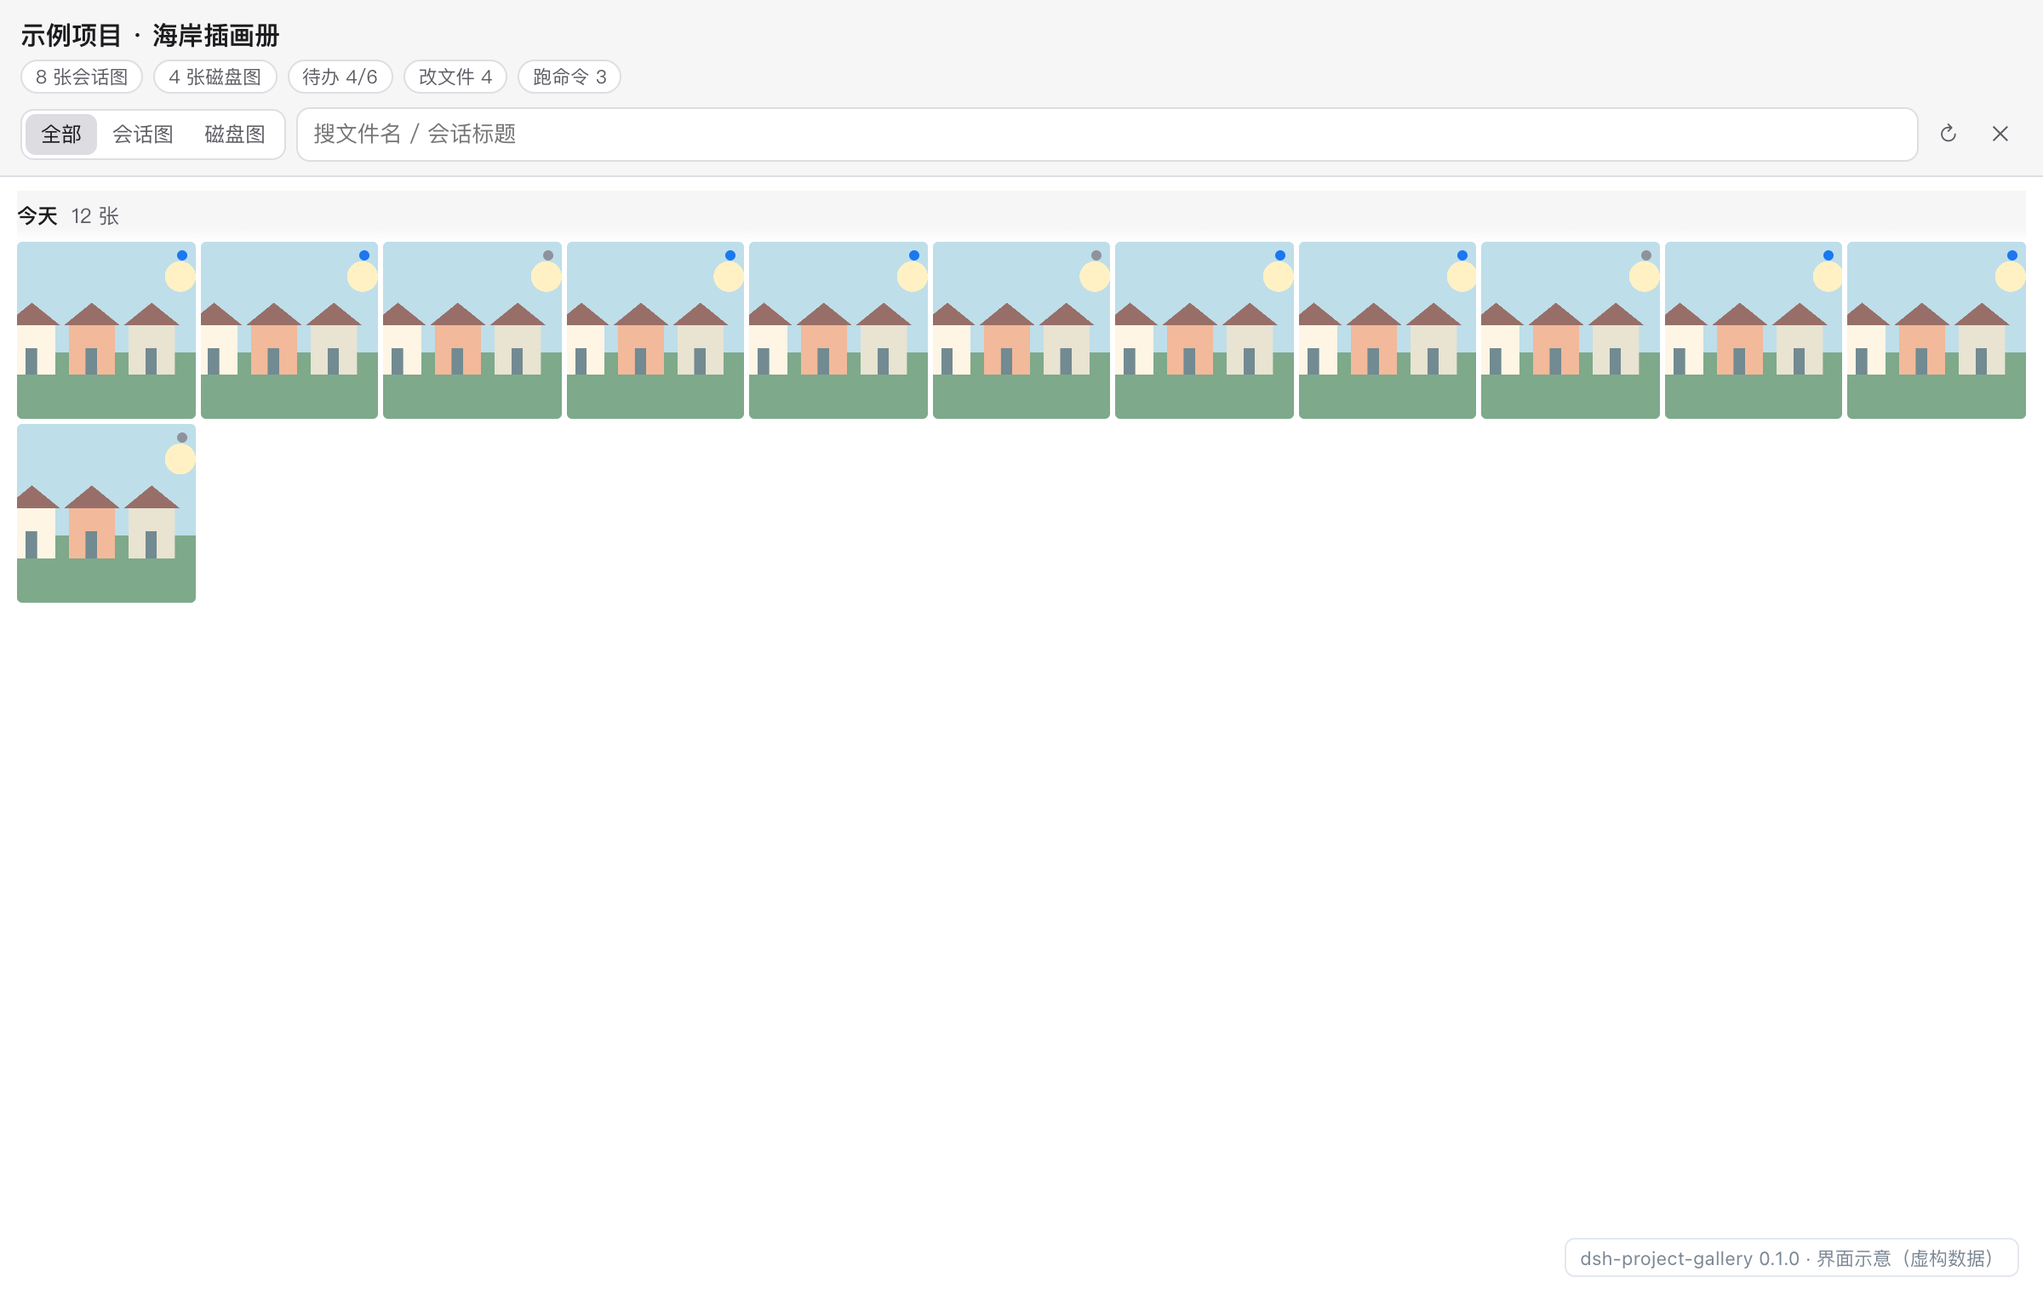
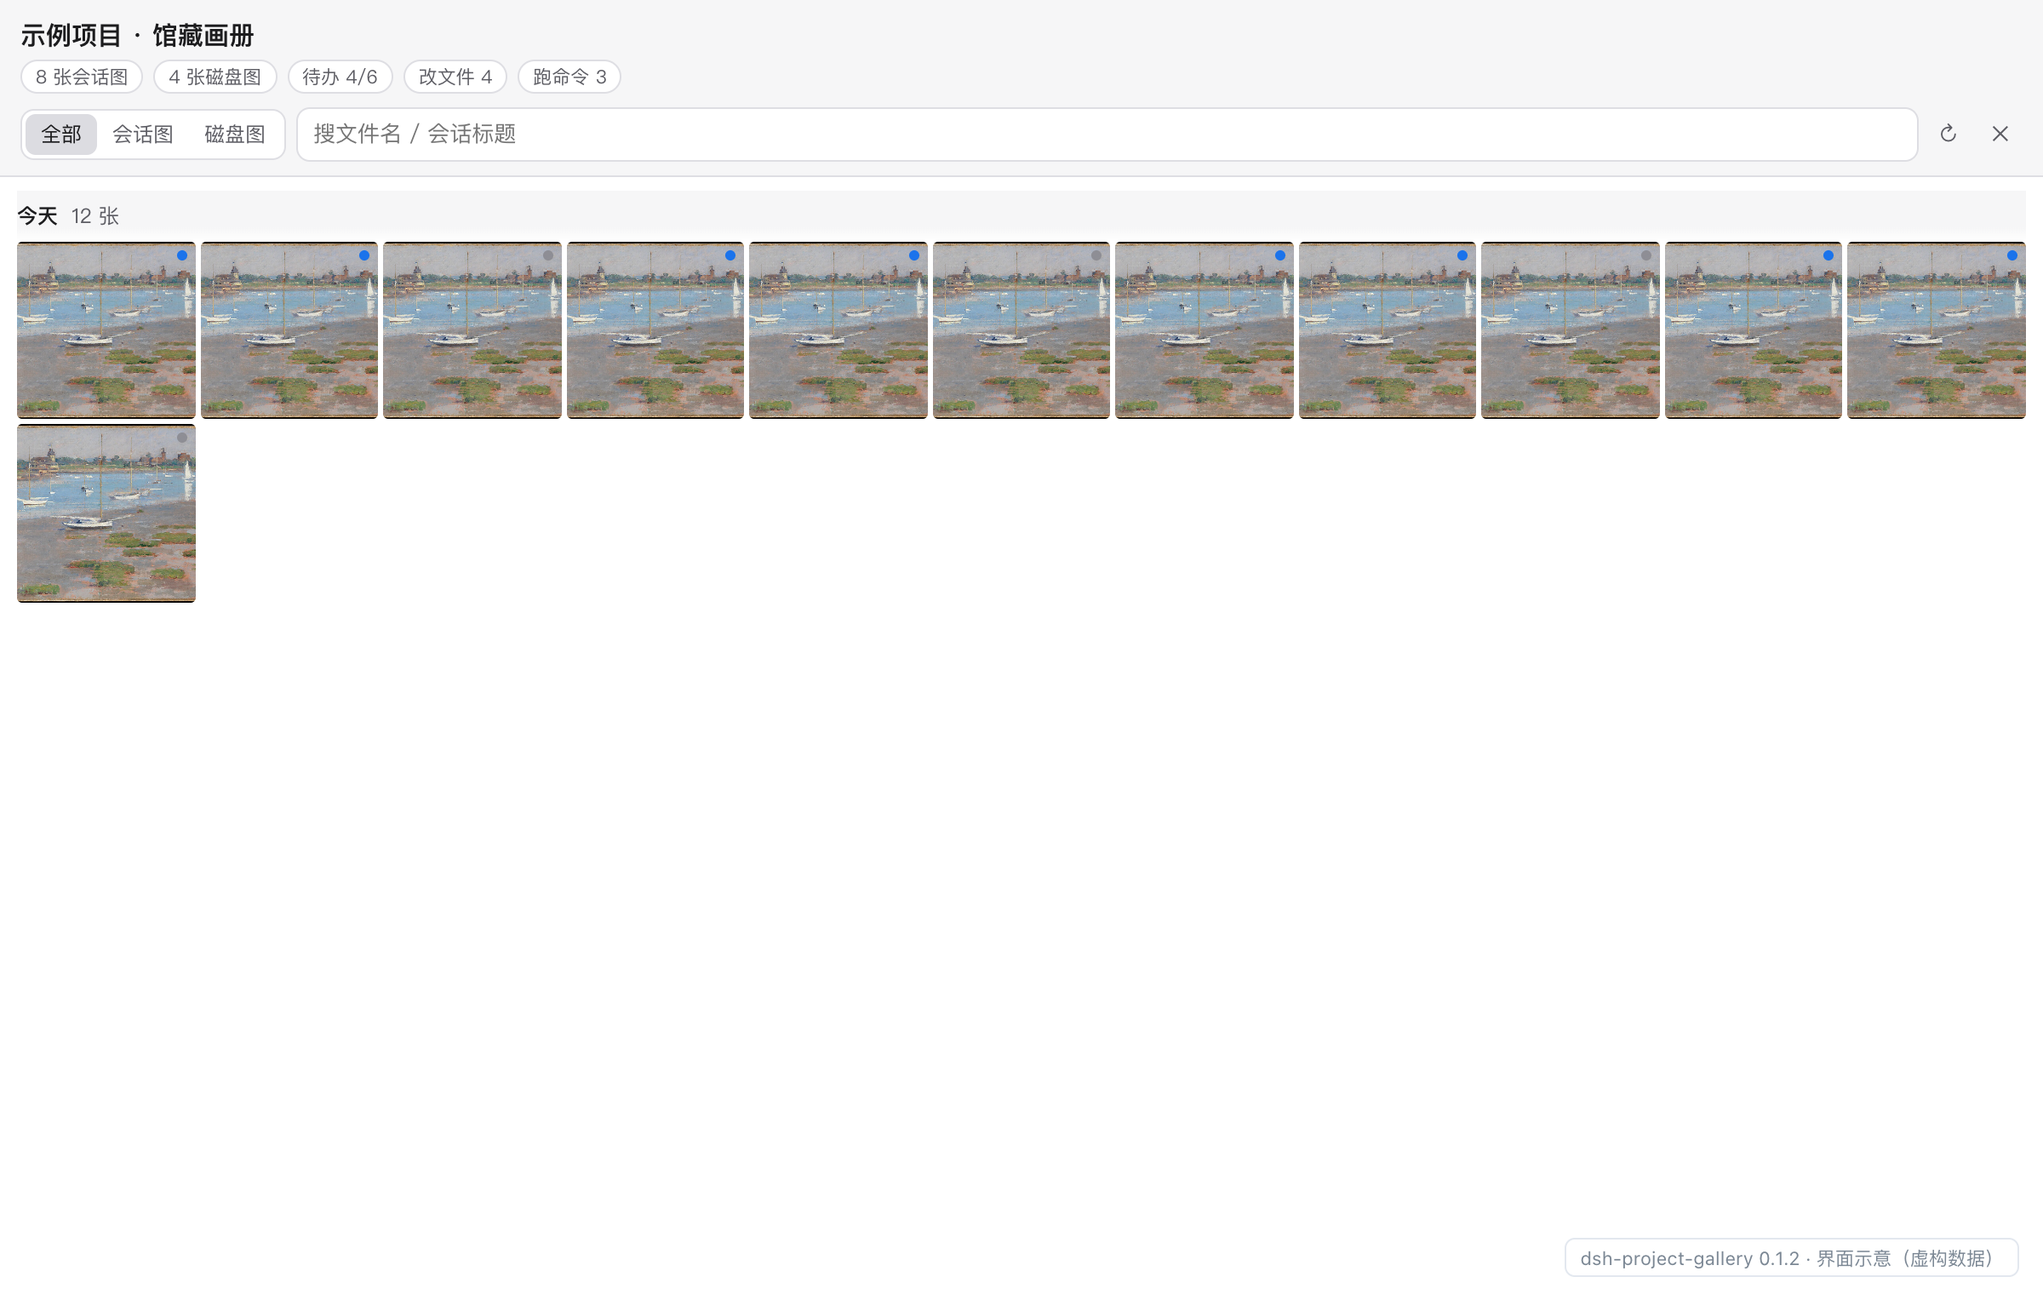
release: 0.1.3 — 演示素材换 CC0 公共领域作品；补悬停卡片截图与促销图浮层

Changed region(s): [[0.0, 0.1855, 1.0, 0.4638], [0.0625, 0.0, 0.125, 0.0309]]

diff --git a/demo/card.html b/demo/card.html
@@ -1,0 +1,153 @@
+<!doctype html>
+<html lang="zh-CN">
+<head>
+<meta charset="utf-8">
+<title>悬停卡片 · 界面示意</title>
+<style>
+  * { box-sizing: border-box; }
+  html, body { margin: 0; background: transparent; }
+  body { font-family: -apple-system, BlinkMacSystemFont, "PingFang SC", "Noto Sans SC", sans-serif; }
+  body.ui {
+    background: #fbfbfc;
+    display: flex;
+    width: 1200px;
+    height: 760px;
+    overflow: hidden;
+  }
+  .side {
+    width: 300px;
+    flex: 0 0 300px;
+    background: #f6f6f8;
+    border-right: 1px solid #ececf0;
+    padding: 16px 12px;
+  }
+  .side .head {
+    display: flex; align-items: center; gap: 8px;
+    padding: 6px 10px 14px; color: #8b8b93; font-size: 12px; font-weight: 600; letter-spacing: .04em;
+  }
+  .side .head i { width: 8px; height: 8px; border-radius: 2px; background: #c7c7d1; display: block; }
+  .row {
+    position: relative;
+    display: flex; align-items: center; gap: 9px;
+    padding: 9px 10px; border-radius: 8px;
+    font-size: 13px; color: #2e2e34;
+  }
+  .row .dot { width: 7px; height: 7px; border-radius: 50%; background: #cfcfd7; flex: 0 0 7px; }
+  .row .name { overflow: hidden; text-overflow: ellipsis; white-space: nowrap; }
+  .row .n { margin-left: auto; font-size: 11px; color: #a4a4ac; }
+  .row.active { background: #ecebfa; }
+  .row.active .dot { background: #5b5bd6; }
+  .row:hover { background: #f0f0f4; }
+  .main { flex: 1; padding: 26px 30px; color: #c3c3ca; font-size: 13px; }
+  .main .ghost { height: 12px; border-radius: 6px; background: #f1f1f4; margin-bottom: 12px; }
+</style>
+</head>
+<body>
+<script type="module">
+  const params = new URLSearchParams(location.search)
+  if (params.get('bg') !== 'none') document.body.classList.add('ui')
+
+  // 卡片样式直接取自浏览器半片 client.js 里的 CSS，避免两套样式漂移
+  const clientSource = await (await fetch('/session-gallery/client.js')).text()
+  const cssMatch = clientSource.match(/const CSS = `([\s\S]*?)`/)
+  if (!cssMatch) throw new Error('client.js 里没找到 CSS 块')
+  const style = document.createElement('style')
+  style.textContent = cssMatch[1]
+  document.head.append(style)
+
+  const summary = await (await fetch('/session-gallery/api/summary')).json()
+  const project = summary.workspaces[0]
+
+  const PEEK_CAPTION = data =>
+    `${data.imageCount} 张图 · 待办 ${data.todos.done}/${data.todos.total} · ${data.sessionCount} 次会话`
+
+  // 侧栏示意（只有背景模式才画）
+  if (document.body.classList.contains('ui')) {
+    const side = document.createElement('div')
+    side.className = 'side'
+    side.innerHTML = '<div class="head"><i></i>工作区</div>' + summary.workspaces.map((workspace, index) => `
+      <div class="row${index === 0 ? ' active' : ''}" data-index="${index}">
+        <span class="dot"></span>
+        <span class="name">${workspace.name}</span>
+        <span class="n">${workspace.imageCount}</span>
+      </div>`).join('')
+    const main = document.createElement('div')
+    main.className = 'main'
+    main.innerHTML = '<div class="ghost" style="width:38%"></div><div class="ghost" style="width:72%"></div><div class="ghost" style="width:58%"></div>'
+    document.body.append(side, main)
+  }
+
+  // 卡片：结构与 client.js 的 showPeek 一致
+  const card = document.createElement('div')
+  card.className = 'sg-peek'
+  card.style.position = 'fixed'
+  card.style.visibility = 'hidden'
+
+  const bar = document.createElement('div')
+  bar.className = 'sg-peek-bar'
+  const title = document.createElement('b')
+  title.textContent = project.name
+  title.style.cssText = 'overflow:hidden;text-overflow:ellipsis;white-space:nowrap;flex:1;min-width:0'
+  const pin = document.createElement('button')
+  pin.className = 'sg-icon-btn'
+  pin.title = '固定住（鼠标移开也不消失）'
+  pin.textContent = '📌'
+  const close = document.createElement('button')
+  close.className = 'sg-icon-btn'
+  close.title = '关闭 (Esc)'
+  close.textContent = '✕'
+  bar.append(title, pin, close)
+
+  const caption = document.createElement('span')
+  caption.className = 'sg-peek-caption'
+  caption.textContent = PEEK_CAPTION(project)
+  caption.style.cssText = 'font-size:11px;color:#9a9aa1'
+
+  const grid = document.createElement('div')
+  grid.className = 'sg-peek-grid'
+  for (const image of project.thumbs.slice(0, 4)) {
+    const button = document.createElement('button')
+    button.className = 'sg-peek-thumb'
+    button.title = image.name || ''
+    const img = document.createElement('img')
+    img.src = `/session-gallery/api/thumb?sha=${encodeURIComponent(image.sha)}&w=200`
+    img.alt = image.name || ''
+    button.append(img)
+    grid.append(button)
+  }
+
+  const foot = document.createElement('div')
+  foot.className = 'sg-peek-foot'
+  const open = document.createElement('button')
+  open.className = 'sg-peek-open'
+  open.textContent = '打开相册'
+  const all = document.createElement('button')
+  all.className = 'sg-icon-btn'
+  all.style.width = '26px'
+  all.title = '全部项目（⌘⇧G）'
+  all.textContent = '▦'
+  const mute = document.createElement('button')
+  mute.className = 'sg-icon-btn'
+  mute.style.width = '26px'
+  mute.title = '不再自动预览'
+  mute.textContent = '⊘'
+  foot.append(open, all, mute)
+
+  card.append(bar, caption, grid, foot)
+  document.body.append(card)
+
+  // 定位：桌面模式贴在第二行右侧；透明模式放在左上角
+  if (document.body.classList.contains('ui')) {
+    const row = document.querySelectorAll('.row')[1] || document.querySelector('.row')
+    const rect = row.getBoundingClientRect()
+    card.style.left = `${Math.round(rect.right + 14)}px`
+    card.style.top = `${Math.round(rect.top)}px`
+  } else {
+    card.style.left = '0px'
+    card.style.top = '0px'
+  }
+  card.style.visibility = 'visible'
+  document.body.dataset.ready = '1'
+</script>
+</body>
+</html>

diff --git a/docs/screenshots-demo/PROVENANCE.md b/docs/screenshots-demo/PROVENANCE.md
@@ -1,23 +1,52 @@
-# 演示图来源与重生成
+# 演示素材的来源与重生成
 
-这三张图**全部是虚构数据**，不含任何真实项目、真实路径、真实会话：
+所有对外图片都只用**虚构数据 + 无版权素材**生成，生成脚本在仓库里，可重复。
 
-- 数据源：`demo/mock-server.mjs`（项目名 `示例项目 · 海岸插画册`，图片名 `示例_海岸_0N.png`）
-- 图片素材：`demo/fixtures/illustration-1..4.png`，程序绘制的原创插画（无第三方版权）
-- 生成命令：`npm run shots`（Playwright + 本机 Chrome，1200×760 @2x）
-- 页脚水印：`dsh-project-gallery <版本> · 界面示意（虚构数据）`，版本号由 `package.json` 注入
-- 校验：`node --test` 的 15 项 + 图内不得出现真实路径/项目名（发布前用 grep 复查）
+## 1. 演示图片（demo/fixtures/）
+
+8 张公共领域作品，取自 The Metropolitan Museum of Art Open Access（CC0 1.0），可自由复制、修改、商用。
+逐张的作品名/作者/年代/来源链接见 [demo/fixtures/LICENSE-IMAGES.md](../../demo/fixtures/LICENSE-IMAGES.md)。
+
+处理方式：只等比缩放到最长边 900px、转 JPEG（q82），未做其它修改。
+
+## 2. 虚构数据（demo/mock-server.mjs）
+
+- 三个虚构项目：`示例项目 · 馆藏画册` / `示例项目 · 版式实验` / `示例项目 · 落地页重做`
+- 虚构会话标题与对话原文（例如「把这张画的色调改成清晨的暖色，并生成 4 张候选。」）
+- 路径一律 `/demo/<项目>`，不含任何真实目录
+
+## 3. 截图（docs/screenshots-demo/）
+
+生成命令：`node demo/shots.mjs`（需要 playwright；`PLAYWRIGHT_PATH` 可指向任意已装目录）
 
 | 文件 | 截的是什么 |
 |---|---|
 | `01-global-album.png` | 全局相册：左侧按项目、右侧按天分组网格 |
-| `02-project-dock.png` | 项目级右侧面板：项目名 + 统计 chips + 搜索 + 网格 |
+| `02-project-dock.png` | 项目级侧栏面板：项目名 + 统计 + 搜索 + 网格 |
 | `03-lightbox.png` | 灯箱：图左 / 上下文右（当时在做什么、元信息、动作）/ 胶片条在下 |
+| `04-hover-card.png` | 悬停工作区行弹出的卡片（可 📌 固定、可 ⊘ 静音），背景是示意侧栏 |
+| `card-transparent.png` | 同一张卡片的透明底版本，给促销图当浮层用 |
 
-## 促销图（`docs/promo-zh.png` / `docs/promo-en.png`）
+界面本身走真实代码：`01`–`03` 由 `web/` 页面渲染；`04` 与透明卡片由 `demo/card.html` 渲染，
+**卡片样式直接从 `adapters/dsh-plugin/client.js` 里的 CSS 块读取**（页面会 fetch `client.js` 并取 `const CSS = ...`），
+所以不会出现「截图是另一套样式」的漂移。
 
-同样只用虚构数据：
+## 4. 促销图（docs/promo-zh.png / docs/promo-en.png）
 
-- 界面部分：`03-lightbox.png`（上面那张，虚构项目与虚构插画）缩放进右侧窗口；
-- 文字、标签、安装命令、背景由 `promotion/make-promo.mjs` 现场排版渲染（Playwright + 本机 Chrome，1600×900 @2x）；
-- 不含任何真实项目名、路径、会话或截图。
+生成命令：`node promotion/make-promo.mjs`（Playwright + 本机 Chrome，1600×900）
+
+- 右侧：`03-lightbox.png` 缩放；左下浮层：`card-transparent.png`（即 `04` 的那张卡片）
+- 左侧文字、标签、安装命令、背景由脚本现场排版
+- 不含任何真实项目名、路径、会话或截图
+
+## 5. 页脚水印
+
+截图右下角带 `dsh-project-gallery <版本> · 界面示意（虚构数据）`，版本号由 `package.json` 注入。
+
+## 6. 发布前复查
+
+```sh
+grep -rIn --exclude-dir=.git -E '/Users/|/home/|hequbing|dosen' docs demo promotion | head
+```
+
+应只命中脚本里的注释或示例路径；有真实路径就说明素材拿错了，不要发。

diff --git a/demo/fixtures/LICENSE-IMAGES.md b/demo/fixtures/LICENSE-IMAGES.md
@@ -1,0 +1,20 @@
+# 演示素材（demo/fixtures/）的来源与许可
+
+这 8 张图**全部是公共领域作品**，取自 The Metropolitan Museum of Art 的 Open Access（CC0 1.0），
+可自由复制、修改、商用，无需署名（这里仍按惯例列出出处）。
+
+| 文件 | 作品 | 作者 | 年代 | 来源 |
+|---|---|---|---|---|
+| `artwork-1.jpg` | Low Tide, Riverside Yacht Club | Theodore Robinson | 1894 | [Met Open Access](https://www.metmuseum.org/art/collection/search/19523) |
+| `artwork-2.jpg` | Chelsea Bridge and Church | James McNeill Whistler | 1871 | [Met Open Access](https://www.metmuseum.org/art/collection/search/372547) |
+| `artwork-3.jpg` | Still Life: Flowers and Fruit | Severin Roesen | 1850–55 | [Met Open Access](https://www.metmuseum.org/art/collection/search/11938) |
+| `artwork-4.jpg` | Still Life—Flowers and Fruit in White and Pink Bowl | Unknown | 1840–60 | [Met Open Access](https://www.metmuseum.org/art/collection/search/13006) |
+| `artwork-5.jpg` | The Yosemite Valley from the Mariposa Trail | Carleton E. Watkins | 1865–66 | [Met Open Access](https://www.metmuseum.org/art/collection/search/663398) |
+| `artwork-6.jpg` | Tutocanula, or El Capitan, 3600 feet, Yosemite Valley, Mariposa County, California | Carleton E. Watkins | 1865–66 | [Met Open Access](https://www.metmuseum.org/art/collection/search/663400) |
+| `artwork-7.jpg` | Street Scene in Yoshiwara | Hishikawa Moronobu | late 17th century | [Met Open Access](https://www.metmuseum.org/art/collection/search/55584) |
+| `artwork-8.jpg` | Self-Portrait, Drawing | Jan Lutma the Younger | ca. 1650 | [Met Open Access](https://www.metmuseum.org/art/collection/search/905500) |
+
+- 许可：CC0 1.0 Universal（Public Domain Dedication）—— https://creativecommons.org/publicdomain/zero/1.0/
+- 馆方说明：https://www.metmuseum.org/about-the-met/policies-and-documents/open-access
+- 处理：仅等比缩放到最长边 900px、转 JPEG（q82），未做其它修改。
+- 用途：只用于 `npm run shots` 与 `promotion/make-promo.mjs` 生成的界面示意，与插件运行时无关。

diff --git a/README.md b/README.md
@@ -23,6 +23,8 @@ DeepSeek Harness（DSH）插件：把会话里 AI 看过 / 生成过 / 交付过
 | 卡片里「打开相册」/ 点缩略图 | 右侧面板（420px）：按天分组的网格 + 搜索 + 会话图/磁盘图切换 |
 | 工作区头部 **📷** 或 **⌘⇧G** | 全局相册浮层：左侧按项目、右侧按天网格 |
 
+![悬停工作区行：先看最近 4 张，可固定、可静音](https://raw.githubusercontent.com/dongsheng123132/dsh-project-gallery/main/docs/screenshots-demo/04-hover-card.png)
+
 ## 灯箱
 
 大图**不再铺满屏幕**：图在左、上下文在右（当时在做什么、时间/尺寸/体积/工具/来源/会话/第几轮/路径）、
@@ -30,8 +32,9 @@ DeepSeek Harness（DSH）插件：把会话里 AI 看过 / 生成过 / 交付过
 
 ![项目级面板：按天分组 + 搜索 + 会话图/磁盘图切换](https://raw.githubusercontent.com/dongsheng123132/dsh-project-gallery/main/docs/screenshots-demo/02-project-dock.png)
 
-> 两张界面图都是**虚构数据**（`node demo/shots.mjs` 生成截图、`node promotion/make-promo.mjs` 合成促销图），
-> 不含任何真实项目或会话；来源与重生成步骤见 [docs/screenshots-demo/PROVENANCE.md](https://raw.githubusercontent.com/dongsheng123132/dsh-project-gallery/main/docs/screenshots-demo/PROVENANCE.md)。
+> 截图与促销图都用**虚构数据**生成（`node demo/shots.mjs`、`node promotion/make-promo.mjs`）；演示图片是公共领域作品
+> （Met Open Access，CC0，来源见 [demo/fixtures/LICENSE-IMAGES.md](https://github.com/dongsheng123132/dsh-project-gallery/blob/main/demo/fixtures/LICENSE-IMAGES.md)），不含任何真实项目或会话。
+> 重生成步骤与逐图来源见 [docs/screenshots-demo/PROVENANCE.md](https://github.com/dongsheng123132/dsh-project-gallery/blob/main/docs/screenshots-demo/PROVENANCE.md)。
 
 ## 数据从哪来
 

diff --git a/README.en.md b/README.en.md
@@ -15,8 +15,9 @@ row for the latest few; open the album; open an image and see **what you asked f
 
 ![Project Gallery: image left, the conversation behind it right](https://raw.githubusercontent.com/dongsheng123132/dsh-project-gallery/main/docs/promo-en.png)
 
-> The interface is currently Chinese-only; this English page documents it. Both images use **fictional data**
-> (`node demo/shots.mjs`, `node promotion/make-promo.mjs`) — no real project or session appears in them.
+> The interface is currently Chinese-only; this English page documents it. Screenshots use **fictional data**
+> (`node demo/shots.mjs`, `node promotion/make-promo.mjs`); the demo images are public-domain artworks (Met Open
+> Access, CC0 — see [demo/fixtures/LICENSE-IMAGES.md](https://github.com/dongsheng123132/dsh-project-gallery/blob/main/demo/fixtures/LICENSE-IMAGES.md)).
 
 ## Three entry points
 
@@ -25,6 +26,8 @@ row for the latest few; open the album; open an image and see **what you asked f
 | Hover a project / chat row, then its **⋯ area on the right** | A small card: project name, "N images · todos x/y", 2×2 thumbnails; can be 📌 pinned, and a project can be ⊘ muted |
 | "Open album" in the card, or click a thumbnail | Right-side panel (420px): day-grouped grid, search, session-images / on-disk-images switch |
 | **📷** in the workspace header, or **⌘⇧G** | Global album overlay: projects on the left, day-grouped grid on the right |
+
+![Hovering a workspace row: the latest four images, pinnable and mutable](https://raw.githubusercontent.com/dongsheng123132/dsh-project-gallery/main/docs/screenshots-demo/04-hover-card.png)
 
 ## Lightbox
 

diff --git a/CHANGELOG.md b/CHANGELOG.md
@@ -1,5 +1,16 @@
 # Changelog
 
+## 0.1.3 — 2026-11-18
+
+演示素材换成公共领域作品；补上「悬停卡片」的对外图。
+
+- `demo/fixtures/` 由程序绘制的 4 张插画换成 **8 张 Met Open Access 公共领域作品（CC0）**，逐张来源见
+  `demo/fixtures/LICENSE-IMAGES.md`；演示项目名与对话文案同步改成画册语境。
+- 新增 `demo/card.html`：悬停卡片的独立演示页，**卡片样式直接读 `client.js` 的 CSS 块**，不另写一套；
+  新增截图 `docs/screenshots-demo/04-hover-card.png` 与透明底 `card-transparent.png`。
+- 促销图重做：右侧灯箱 + 左下浮出悬停卡片（1600×900，`promotion/make-promo.mjs`）。
+- npm 包不再包含 `demo/` 与 `docs/screenshots-demo/`（README 用 raw URL 引用），安装体积回到 340 KB 量级。
+
 ## 0.1.2 — 2026-11-18
 
 回归测试与门面版本；行为不变（只有一处可选配置透传）。

diff --git a/promotion/市场推广资料.md b/promotion/市场推广资料.md
@@ -41,8 +41,11 @@ Windows 与 0.3.x 宿主未验证，别替它承诺。
 
 ## 展示素材
 
-- `docs/promo-zh.png` / `docs/promo-en.png`：1600×900「左文右界面」，界面部分为虚构数据截图；
+- `docs/promo-zh.png` / `docs/promo-en.png`：1600×900「左文右界面 + 左下悬停卡片浮层」；
   生成脚本 `promotion/make-promo.mjs`（playwright，`PLAYWRIGHT_PATH` 可指向任意已装目录）。
+- `docs/screenshots-demo/04-hover-card.png`：悬停卡片单独一张（背景为示意侧栏），可单独发帖用。
+- 演示图片全部是 **公共领域作品**（Met Open Access，CC0），来源逐张列在 `demo/fixtures/LICENSE-IMAGES.md`；
+  卡片样式直接读 `client.js` 的 CSS，截图与真实界面不会两套样式。
 - 英文版界面文案仍是中文（插件 UI 暂未 i18n），README.en.md 已如实说明。
 
 ## 推广待办
